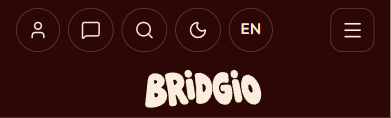
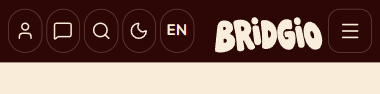
docs(batch5): correct header delivery note and screenshots

diff --git a/docs/BATCH-5-FOLLOWUP-DELIVERY-NOTE.md b/docs/BATCH-5-FOLLOWUP-DELIVERY-NOTE.md
@@ -8,6 +8,16 @@
 
 `main` was inspected directly (not the previous delivery note): items 1–4 were **missing or partial** and are implemented here. None of the owner's locked decisions was reopened: Thmanyah is untouched, Support invents no contact channel and no success, and motion lives in tokens.
 
+### Correction 2026-11-14 — header alignment (item 2)
+
+The owner corrected item 2 after the first delivery: the wordmark was never meant to be centred on mobile, and the phone header had to return to a single row. The corrected state is what ships on this branch (fix commit `530319e`).
+
+- **Phone (≤767.98 px):** one flex row, as on `main` — menu, wordmark at the inline-start, utilities. The two-row grid is removed. The account avatar stays visible (`.app-utility__button--account { display: inline-flex }`); it is the only route to sign out now that the rail's Profile item is gone.
+- **Desktop (≥768 px):** `.app-header__inner` is `grid-template-columns: minmax(0, 1fr) auto minmax(0, 1fr)`, with the menu in column 1 (inline-start), the brand in column 2 and the utilities in column 3 (`justify-self: end`, auto margin removed). The two equal flexible columns put the brand at the exact horizontal centre of the header content width; explicit column assignments keep it centred when the menu is removed at ≥1024 px.
+- **Unchanged:** desktop bar height (76 px, 74 px content + 2 px rule), wordmark widths (148 px at 768–1023, 136 px at ≥1024), artwork and fills, and the phone bar's 60 px minimum.
+- **Phone width fit:** `main` carried three phone utilities; the finished header carries five (language, theme, search, chat, account). A 136 px wordmark plus five 44 px-tall controls plus the 44 px menu cannot share 390 px at `main`'s 16 px edge padding, so the phone row uses 8 px edge padding, 34 × 44 px icon-only controls and 4 px gaps. The wordmark then measures 136 px at a true 390 px viewport (126 px in the 380 px screenshot viewport, where the desktop scrollbar takes 10 px) and the row has no horizontal overflow. The wordmark's own width is not redefined.
+- **Tablet width fit:** at 768–1023 px five labelled controls are wider than either side column of the centred grid, so the utilities are icon-only in that range and their labels return at ≥1024 px. Measured gap between the brand and the utilities at 768 px: 30 px; no overlap at any width from 320 to 1920.
+
 ---
 
 ## 1. Items 1–4: what `main` actually had
@@ -15,7 +25,7 @@
 | # | Item | State in `main` (`ec831fc`) | What this branch adds |
 | --- | --- | --- | --- |
 | 1 | Branded scrollbars app-wide | No scrollbar rule existed in any stylesheet (`git grep scrollbar ec831fc -- src/styles` was empty); Chromium drew its default bar. | `followup.css` §1: thin bar, transparent track, maroon thumb (cream in dark theme), 10 px, 2 px paper border, pill radius, red thumb on hover. Applied to `html` and `*` so every scroll container is covered. |
-| 2 | Centred wordmark in the phone dark band | The `<768 px` band was a single flex row (menu + 136 px cream wordmark + utilities), so the wordmark sat off-centre and the utilities crowded it. | The band becomes a two-row grid: menu and utilities on row 1, the 136 px cream wordmark centred on row 2. One-row true centring is geometrically impossible at 375 px content width (136 + 44 + 4×44 + gaps). |
+| 2 | Centred wordmark in the desktop header | The `<768 px` band was a single flex row, and the ≥768 px row put the wordmark straight after the menu at the inline-start. | The phone keeps that single row (corrected 2026-11-14: no mobile centring, account avatar visible). From 768 px the inner bar is a three-column grid — menu inline-start, brand centre, utilities inline-end — so the wordmark sits at the exact centre of the header content width (measured 0.00 px offset at 768, 1024 and 1920, AR and EN). See the correction section above. |
 | 3 | Classes as a table | `ClassList` rendered a `class-grid` of cards; no table, no scoreboard columns. | A real table: name, subject, grade, students, tests, status, action. The name and the action both link to the same class detail screen; the detail screen is untouched. Status is derived from the class's own tests (no tests → "No tests", any draft → "Drafts", all published → "Published"). No sorting. |
 | 4 | Materials detail opens as a card | The expanded `materials.get` block was already inline in its row, but it was an unstyled text block, not a card. | The same expansion is now a framed card (cream, hairline border, radius) with the detail animation. The library stays a list, and the delete-confirmation block is unchanged. |
 
@@ -105,7 +115,7 @@ The follow-up adds one test file (`src/content/roles.test.ts`, three cases: fema
 
 Runtime checks (dev server, Chromium, 1920 / 1440 / 390):
 
-- 390 px wordmark measured at 136 × 49.1 px, centre 195.2 px in a 390 px viewport (195 px is exact centre) in both AR and EN.
+- Header: the 390 px phone bar is one row (five controls, wordmark, menu) with no horizontal overflow (document width = viewport width); the desktop wordmark centre equals the header content centre exactly (0.00 px offset) at 768, 1024, 1280 and 1920, AR and EN; the ≥1024 px bar stays 76 px tall with the 136 px wordmark.
 - Classes table: document width 390 px, no page-level horizontal overflow; the table itself scrolls inside its wrapper (864 px content in a 355 px wrapper) with the branded scrollbar.
 - Support: empty form keeps the button disabled; a filled form shows the pending label and then the "request was not sent" state; the text stays in the fields.
 - Sign out lands on `/sign-in`; the signed-out account menu shows Sign in; signing in as the teacher lands on the teacher dashboard; an unknown email shows the adapter message.
@@ -120,7 +130,7 @@ All under `docs/screenshots/`. Each pair of `-rest` / `-pressed` images uses the
 | Item | Files |
 | --- | --- |
 | 1. Scrollbars (chat, RTL) | `followup-scrollbar-chat-1920-ar-dark.png`, `followup-chat-popup-1920-ar-dark.png` |
-| 2. Phone wordmark | `followup-wordmark-390-ar-light.png`, `followup-wordmark-390-en-dark.png` |
+| 2. Header (single-row phone, centred desktop wordmark) | `followup-wordmark-390-ar-light.png`, `followup-wordmark-390-en-dark.png`, `followup-wordmark-1920-ar-light.png`, `followup-wordmark-1920-en-light.png`, `followup-wordmark-1024-ar-light.png`, `followup-wordmark-1024-en-light.png` |
 | 3. Classes table | `followup-classes-table-1920-ar-light.png`, `followup-classes-table-390-ar-light.png`, `followup-classes-table-1920-en-dark.png`, `followup-classes-table-390-en-dark.png` |
 | 4. Materials card | `followup-material-card-1920-ar-light.png`, `followup-material-card-390-en-light.png` |
 | 5. Pressed states | `followup-pressed-primary-rest.png` / `-pressed.png`, `followup-pressed-nav-rest.png` / `-pressed.png`, `followup-pressed-fab-rest.png` / `-pressed.png`, `followup-pressed-quick-rest.png` / `-pressed.png` |
